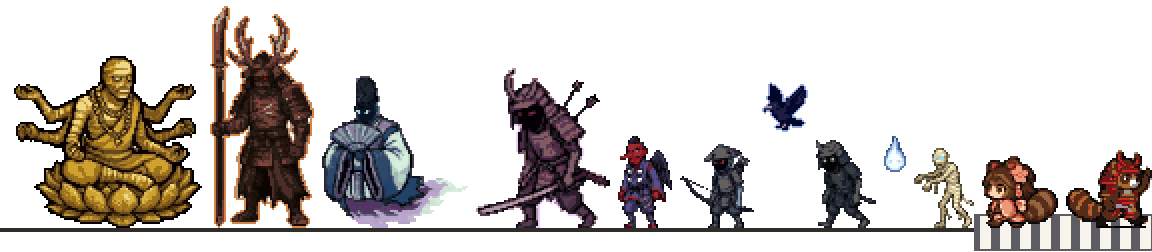
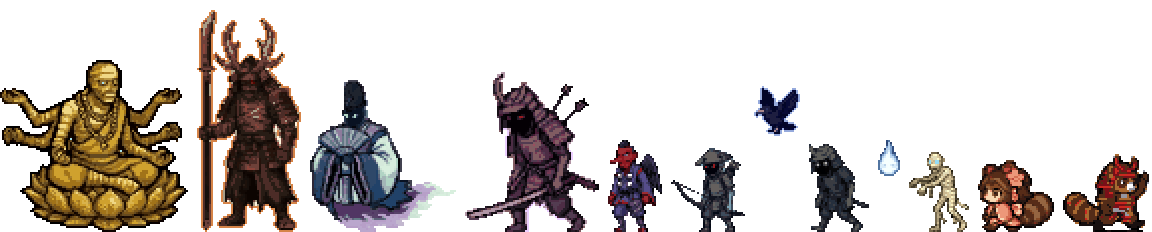
Day8 のスライドの組み立てを変える（上に見出しの帯・中央に大きなロゴとひとこと・下に幅いっぱいの横断歩道をみんなで渡る）

diff --git a/docs/slide.html b/docs/slide.html
@@ -14,7 +14,9 @@
   :root {
     --paper: #fbf7ee;          /* 和紙の白 */
     --ink: #231e19;            /* 墨 */
+    --mute: #6b6158;           /* 見出しの、控えめな色 */
     --shu: #c33f26;            /* 朱（強い色は、これだけ。ロゴの赤・鳥居の朱に合わせる） */
+    --road: #4a4a52;           /* 道路 */
     --mincho: "Yu Mincho", "YuMincho", "Hiragino Mincho ProN", "Noto Serif JP", serif;
     --gothic: "Hiragino Sans", "Hiragino Kaku Gothic ProN", "Yu Gothic", "Meiryo", sans-serif;
   }
@@ -22,26 +24,38 @@
   body { font-family: var(--gothic); color: var(--ink); }
   .deck { max-width: 1280px; margin: 0 auto; padding: 24px 0; }
   .slide { position: relative; width: 100%; max-width: 1280px; aspect-ratio: 16 / 9; overflow: hidden; background: var(--paper); }
-  .top { position: absolute; left: 64px; top: 30px; right: 200px; }
-  .row { display: grid; grid-template-columns: 112px 1fr; align-items: baseline; }
-  .row + .row { margin-top: 10px; }
-  .label { font-family: var(--mincho); font-size: 38px; font-weight: 700; color: var(--shu); margin: 0; letter-spacing: 0.08em; }
-  .who { font-size: 44px; font-weight: 700; margin: 0; }
-  .scene { font-size: 40px; line-height: 1.32; margin: 0; }
-  /* キャラクターの行列（右へ行進。先頭のタヌキ侍が、横断歩道を渡る） */
-  .parade { position: absolute; left: 64px; top: 198px; width: 1152px; height: 252px; image-rendering: pixelated; }
-  .bottom { position: absolute; left: 64px; right: 64px; top: 462px; }
-  .logo { display: block; height: 96px; image-rendering: pixelated; margin-left: -4px; }
-  .catch { font-family: var(--mincho); font-size: 40px; font-weight: 700; line-height: 1.32; margin: 4px 0 0; }
+
+  /* 上: 誰の・場面（静かな見出し。下に罫線1本） */
+  .head { position: absolute; left: 64px; right: 64px; top: 20px; padding-bottom: 12px; border-bottom: 2px solid #d9cfbf; }
+  .row { display: grid; grid-template-columns: 104px 1fr; align-items: baseline; }
+  .row + .row { margin-top: 2px; }
+  .label { font-family: var(--mincho); font-size: 38px; font-weight: 700; color: var(--mute); margin: 0; }
+  .who { font-size: 42px; font-weight: 700; margin: 0; }
+  .scene { font-size: 38px; line-height: 1.32; margin: 0; }
+
+  /* 中央: アプリ名（ロゴを、大きく）・ひとこと・交通安全の朱印 */
+  .hero { position: absolute; left: 64px; right: 64px; top: 206px; display: flex; align-items: center; gap: 44px; }
+  .logo { height: 148px; image-rendering: pixelated; flex: none; margin-left: -6px; }
+  .catch { font-family: var(--mincho); font-size: 40px; font-weight: 700; line-height: 1.36; margin: 0; flex: 1; }
   .catch em { font-style: normal; color: var(--shu); }
-  .by { position: absolute; right: 64px; bottom: 36px; margin: 0; font-size: 38px; }
-  /* 右上: 作者の願い。朱印のように、縦書きの「交通安全」 */
-  .wish { position: absolute; right: 56px; top: 30px; display: flex; gap: 10px; align-items: flex-start; }
-  .wish .note { writing-mode: vertical-rl; font-family: var(--mincho); font-size: 38px; font-weight: 700; margin: 0; letter-spacing: 0.08em; }
-  .wish .seal {
-    writing-mode: vertical-rl; font-family: var(--mincho); font-size: 54px; font-weight: 800; color: var(--shu);
-    border: 4px solid var(--shu); padding: 10px 4px; margin: 0; letter-spacing: 0.06em; line-height: 1;
+  .seal {
+    flex: none; align-self: flex-start; writing-mode: vertical-rl; margin: 0;
+    font-family: var(--mincho); font-size: 50px; font-weight: 800; color: var(--paper); background: var(--shu);
+    padding: 12px 8px; letter-spacing: 0.08em; line-height: 1;
   }
+
+  /* 下: 幅いっぱいの道路と横断歩道。その上を、みんなで渡る */
+  .road {
+    position: absolute; left: 0; right: 0; bottom: 0; height: 72px; background: var(--road);
+    display: flex; align-items: center; justify-content: flex-end; padding: 0 64px;
+  }
+  .road::before {   /* 横断歩道の白線（名前の手前まで） */
+    content: ""; position: absolute; left: 40px; width: 860px; top: 12px; bottom: 12px;   /* 白線の幅＋間（52）の倍数から、最後の間を引いた幅 */
+    background: repeating-linear-gradient(90deg, #f3f0e6 0 28px, transparent 28px 52px);
+  }
+  .parade { position: absolute; left: 64px; bottom: 70px; width: 1152px; height: 232px; image-rendering: pixelated; }
+  .by { position: relative; margin: 0; font-size: 38px; color: #fff; letter-spacing: 0.06em; }
+
   @media print {
     html, body { background: var(--paper); }
     .deck { padding: 0; max-width: none; }
@@ -52,7 +66,7 @@
 <body>
 <div class="deck">
   <section class="slide">
-    <div class="top">
+    <div class="head">
       <div class="row">
         <p class="label">誰の</p>
         <p class="who">平泉を歩いて回る、歴史が苦手な人</p>
@@ -62,16 +76,15 @@
         <p class="scene">中尊寺の月見坂で、藤原四代の話を聞いたのに、<br>名前も順番も、まったく頭に入らなかった</p>
       </div>
     </div>
-    <div class="wish">
-      <p class="note">作者の願い</p>
+
+    <div class="hero">
+      <img class="logo" src="../assets/images/title_logo.png" alt="平泉タヌキ侍">
+      <p class="catch">遊んでいるうちに、<br>平泉の<em>名所</em>と<em>藤原四代</em>が、<br>順番どおりに覚えられるゲーム</p>
       <p class="seal">交通安全</p>
     </div>
-    <img class="parade" src="slide_parade.png" alt="藤原四代のボスと敵たちを先頭のタヌキ侍が率いて、横断歩道を渡る行列">
-    <div class="bottom">
-      <img class="logo" src="../assets/images/title_logo.png" alt="平泉タヌキ侍">
-      <p class="catch">遊んでいるうちに、平泉の<em>名所</em>と<em>藤原四代</em>が、<br>順番どおりに覚えられるゲーム</p>
-    </div>
-    <p class="by">澤田 昌平</p>
+
+    <div class="road"><p class="by">澤田 昌平</p></div>
+    <img class="parade" src="slide_parade.png" alt="藤原四代のボスと敵たち、姫、先頭のタヌキ侍が、横断歩道を渡る">
   </section>
 </div>
 </body>

diff --git a/tools/make_slide_parade.py b/tools/make_slide_parade.py
@@ -1,20 +1,18 @@
 """成果発表スライド（docs/slide.html）の、キャラクターの行列の絵を作る。
 ゲームの絵を、2倍（ドットがにじまない、整数倍）にして、右へ向かって行進するように並べる。
-敵とボスの絵は左向きなので、左右を反転する（清衡は正面なので、そのまま）。先頭のタヌキ侍の足元に、横断歩道を描く。
+敵とボスの絵は左向きなので、左右を反転する（清衡は正面なので、そのまま）。地面（道路と横断歩道）は、スライドの側で描く。
 
 使い方: python tools/make_slide_parade.py   → docs/slide_parade.png
 """
 import os
 
-from PIL import Image, ImageDraw
+from PIL import Image
 
 ROOT = os.path.join(os.path.dirname(__file__), "..")
 IMG = os.path.join(ROOT, "assets", "images")
 OUT = os.path.join(ROOT, "docs", "slide_parade.png")
 K = 2               # 拡大の倍率（整数）
-W, H = 1152, 252    # 絵の大きさ（スライドの、左右の余白を除いた幅）
-BASE = H - 24       # 地面の高さ（足の位置）
-GAP = 8             # キャラクターの間（2倍にしたあと）
+W, H = 1152, 232    # 絵の大きさ（スライドの、左右の余白を除いた幅）。足は、絵のいちばん下
 
 # 左から右へ（行進の後ろから先頭へ）: (絵, 反転するか, 地面からの浮き)
 PARADE = [
@@ -31,7 +29,6 @@ PARADE = [
     ("hime_walk_0", False, 0),
     ("roll_tanuki_raise_2", False, 0),      # 先頭: 手を挙げて、横断歩道を渡るタヌキ侍
 ]
-ZEBRA_FROM = "hime_walk_0"      # この絵から先頭までの足元に、横断歩道
 
 
 def load(name, flip):
@@ -43,29 +40,16 @@ def load(name, flip):
 
 
 def main():
-    parts = [(name, load(name, flip), lift) for name, flip, lift in PARADE]
-    total = sum(im.width for _, im, _ in parts) + GAP * (len(parts) - 1)
+    parts = [(load(name, flip), lift) for name, flip, lift in PARADE]
+    total = sum(im.width for im, _ in parts)
+    gap = (W - total) // (len(parts) - 1)      # 幅いっぱいに、等しい間で並べる
     out = Image.new("RGBA", (W, H), (0, 0, 0, 0))
-    d = ImageDraw.Draw(out)
-    x = W - total       # 右へ寄せる（先頭が、右の端）
-    zebra_x = None
-    for name, im, lift in parts:
-        if name == ZEBRA_FROM:
-            zebra_x = x - 8
-        out.alpha_composite(im, (x, BASE - im.height - lift))
-        x += im.width + GAP
-    # 地面の線と、先頭の足元の横断歩道（足の下に、敷く）
-    ground = Image.new("RGBA", (W, H), (0, 0, 0, 0))
-    g = ImageDraw.Draw(ground)
-    g.rectangle((0, BASE, W, BASE + 3), fill=(48, 44, 40, 255))
-    if zebra_x is not None:     # 道路（灰色）に、白い縞。足は、道路の上に乗る
-        g.rectangle((zebra_x, BASE - 14, W, H - 2), fill=(92, 92, 98, 255))
-        for sx in range(zebra_x + 6, W - 6, 20):
-            g.rectangle((sx, BASE - 12, sx + 10, H - 4), fill=(246, 244, 236, 255))
-    ground.alpha_composite(out)
-    del d
-    ground.save(OUT)
-    print("書き出し:", os.path.normpath(OUT), ground.size, "行列の幅", total)
+    x = 0
+    for im, lift in parts:
+        out.alpha_composite(im, (x, H - im.height - lift))     # 足は、絵のいちばん下（スライドの道路の上に、立つ）
+        x += im.width + gap
+    out.save(OUT)
+    print("書き出し:", os.path.normpath(OUT), out.size, "行列の幅", total, "間", gap)
 
 
 if __name__ == "__main__":
